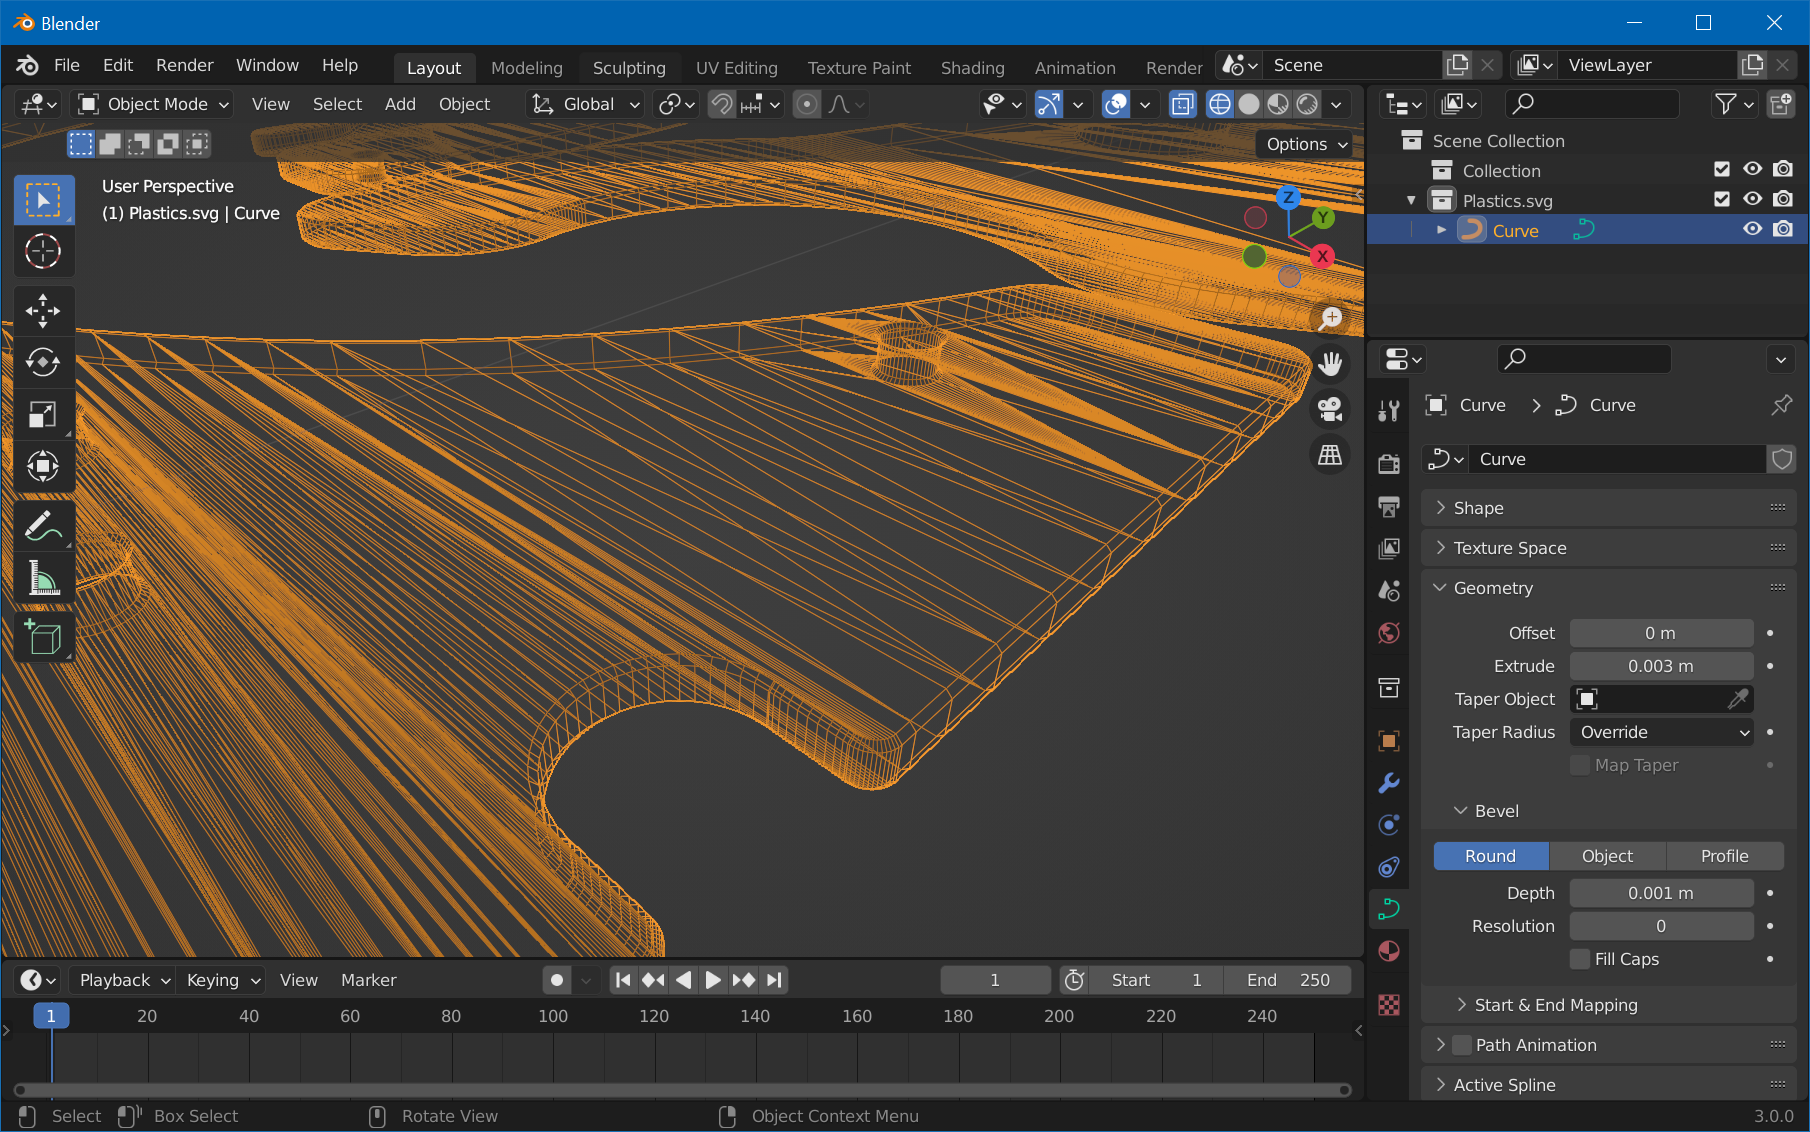
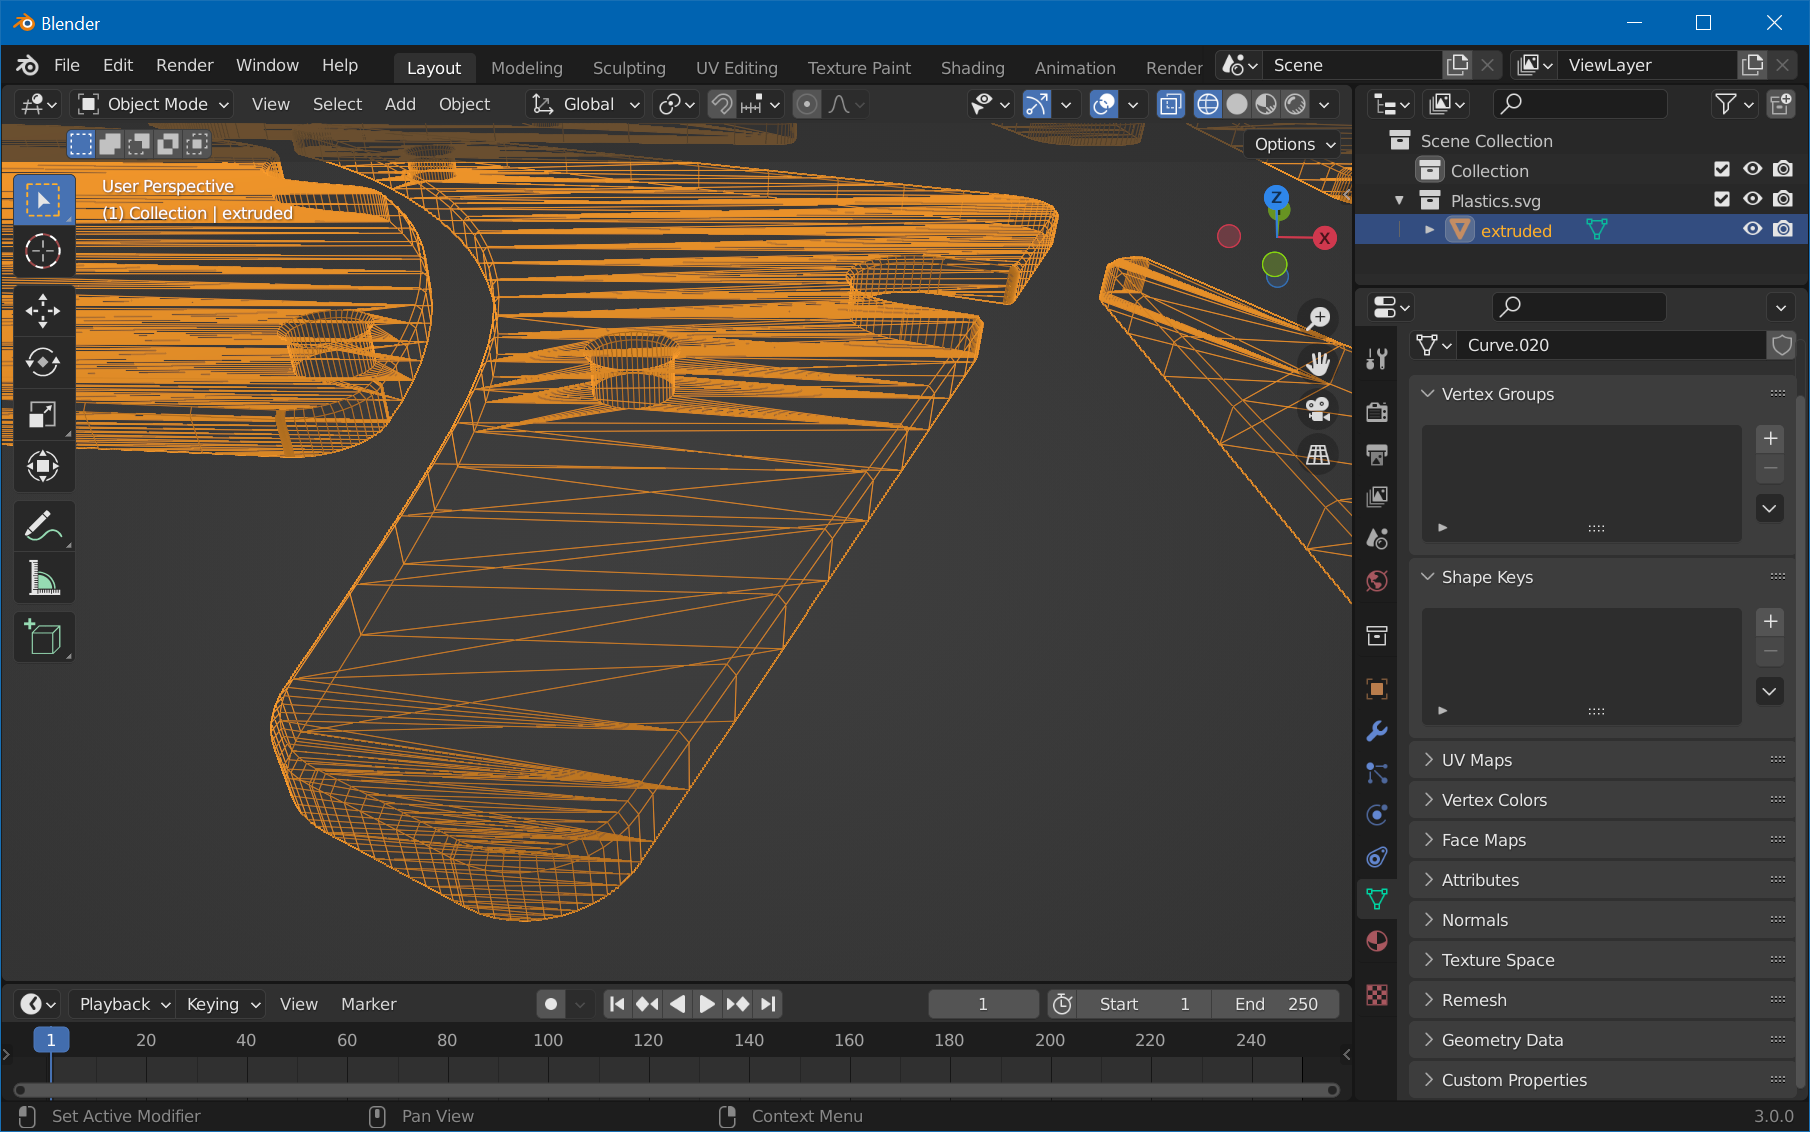
doc: Blender part for plastics is roughly okay now.

diff --git a/VisualPinball.Unity/Documentation~/creators-guide/tutorials/plastics-with-blender/2-create-mesh.md b/VisualPinball.Unity/Documentation~/creators-guide/tutorials/plastics-with-blender/2-create-mesh.md
@@ -21,42 +21,42 @@ Your viewport should look like this now:
 
 ![2D Outlines](blender-shapes.png)
 
-## Step 2: Extrude
+## Step 2: Setup
 
-Before we start extruding, let's make it one single object so we can easily apply everyting we do in one step. Hit `A` for select all, then `Ctrl`+`J` for joining all curves.
+The way we're going for this is to extrude and bevel our SVG on one side only. This however results in the bottom faces missing. To fix that, we'll duplicate our SVG and use one for extrusion and the other for the bottom mesh.
 
-Then, select the curve and click on the *Object Properties* tab in the *Properties* view on the right side. Under *Geometry*, there is an *Extrude* field, and a bit below a *Bevel* section.
+Before we start, let's make it one single object so we can easily apply everyting we do in one step. Select one element, hit `A` for select all, then `Ctrl`+`J` for joining all curves.
 
-Now, the *Extrude* value is difficult to judge. If you have access to the physical plastics, you can calculate the scale between the real world and the object in Blender by physically measuring the size of a plastic and dividing it by the measured value in Blender. Then, also measure the thickness of the real-world plastic and multiply it by that factor. Personally, I just eyeballed it and ended up with 0.004m for the *Extrude* value.
+Hit `Shift`+`D`, `Esc` to duplicate at the same position. In the *Outliner*, let's name our objects "bottom" and "extruded":
 
-However, this when beveling, Blender actually adds the bevel depth to the object, so the size will grow. We recommend beveling about a fourth of the thickness, so if you measured the actual thickness, set the *Bevel Depth* under *Bevel* to about a fourth and multiply the *Extrude* value by 0.8.
+![Duplicated Surface](blender-duplicated-surface.png)
 
-Also be sure to set the *Resolution* of the bevel to 0. In wireframe mode, your mesh should now look like this:
+## Step 3: Extrude
+
+Select "extruded" in the outliner and click on the *Object Properties* tab in the *Properties* view on the right side. Under *Geometry*, there is an *Extrude* field, and a bit below a *Bevel* section.
+
+Now, the *Extrude* value is difficult to judge. If you have access to the physical plastics, you can calculate the scale between the real world and the object in Blender by physically measuring the size of a plastic and dividing it by the measured value in Blender. Then, also measure the thickness of the real-world plastic and multiply it by that factor. Personally, I just eyeballed it and ended up with 0.003m for the *Extrude* value and 0.001m for the *Bevel Depth*.
+
+Then there are three more options to check:
+
+- We only want to extrude the front, so set *Fill Mode* to *Front*.
+- We don't want to make the object larger by bevelling, so enter the negative value of the bevel depth under *Offset*.
+- Finally, a *Resolution* of `0` will do.
+
+Here are all the non-default options in red:
+
+![Extrude Parameters](blender-extrude.png)
+
+## Step 4: Convert, Join and Clean
+
+As seen in the previous screenshot, our bottom object now sits in the middle of the extruded mesh. Let's fix that by typing `G` (move), `Z` (on z-axis only), and the extrude value of the previous step, in our case `0.003`, followed by `Enter`.
+
+Then type `A` to select all objects, choose *Object -> Convert -> Mesh*, and hit `Ctrl`+`J` to join them all. Finally, clean up the duplicated vertices from the extrusion by hitting `Tab` for edit mode, `A` to select all vertices, and choose `Mesh -> Clean Up -> Merge by Distance`.
+
+
+Exit edit mode and this is how it should look:
+
 
 ![Extruded Shapes](blender-extruded.png)
-
-## Step 3: Remove Lower Bevel
-
-Next step is to convert the extruded curve to a mesh. Select the mesh, then *Object -> Convert -> Mesh*. 
-
-We'll now remove the lower bevel by subtracting a cube from our mesh. Click on *Add -> Mesh -> Cube*. Resize the cube so it covers all plastics and move so it just covers the lower edges:
-
-![Cube to remove lower bevel](blender-removing-cube.png)
-
-Select the plastics object, go to the *Modifiers* tab, *Add Modifier -> Boolean*. Make sure *Difference* is selected, then either pick or select the cube under *Object*. Then hit `Ctrl`+`A` to apply it. Select the cube and hit `X`, `Enter` to delete it.
-
-The geometry of your meshes should now look like that:
-
-![No more lower bevel](blender-no-lower-bevel.png)
-
-## Step 4: Clean Up
-
-Now, when extruding, Blender duplicated some of the geometry. In order to fix that,select the plastics, press `Tab` for edit mode, `A` to select all, and choose *Mesh -> Clean Up -> Merge by Distance*. Be sure to put a low enough value so you don't lose any geometry.
-
-Secondly, you notice that the bottom planes have no geometry anymore. To fix that, enter object mode with *Tab*, select the *Modifier* tab in the properties window, press *Add Modifier* and choose *Triangulate*. Then press `Ctrl`+`A` to apply.
-
-Your geometry should now look like that:
-
-![Cleaned up and triangulated](blender-triangulated.png)
 
 If that's the case, congrats, you're done with the meshes! Maybe now it's a good moment to save your Blender file. `Ctrl`+`S` and enter `Plastics.blend`. Now, let's [UV-Map them](xref:plastics_with_blender_3)!

diff --git a/VisualPinball.Unity/Documentation~/creators-guide/tutorials/plastics-with-blender/3-uv-map-mesh.md b/VisualPinball.Unity/Documentation~/creators-guide/tutorials/plastics-with-blender/3-uv-map-mesh.md
@@ -13,18 +13,19 @@ description: How to UV-map the texture onto your mesh in Blender
 
 <img src="blender-material-slots.png" width="235" class="img-responsive pull-right" style="margin-left: 15px">
 
-In object mode, open *Materials* properties and remove the current material slot (hit `-`). Add three new slots, name them "top", "bottom" and "edge". For each slot, create a new material by hitting the *New* button when the slot is selected, and set their base color to red, green and blue respectively. Your slots should now look like in the screenshot.
+In object mode, open *Materials* properties and remove the current material slot (hit `-`). Add three new slots (press `+`), and for each slot, create a new material by hitting the *New* button when the slot is selected. Name them "top", "bottom" and "edge" and set their base color to red, green and blue respectively. Your slots should now look like in the screenshot.
 
-Set the 3D viewport to *Material Preview*. Select your mesh, press `Tab` to switch to edit mode. Press `A` to select all vertices, select the "edge" material slot, and hit *Assign*.
+Set the 3D viewport to *Material Preview*. Select your mesh, press `Tab` to switch to edit mode. Press `A` to select all vertices, select the "edge" material slot, and hit *Assign*. Your plastics should turn blue. Press `A` twice to deselect everything.
 
 Then, press `7` on the numpad to switch to top view, zoom in a bit so you can clearly see the triangles, switch to *Face Select* and click on one face of the top surface:
 
-![Triangle selected](blender-triangle-selected.png)
+![Triangle selected](blender-triangle-selected-2.png)
 
-Click on *Select -> Select Similar -> Coplanar*, which should result in all top faces of all plastics being selected. Then, select the "top" material slot and hit *Assign*.
+<img src="blender-select-coplanar.png" width="280" class="img-responsive pull-right" style="margin-left: 15px">
 
-For the bottom faces, hit `7`, `9` on the numpad to switch to bottom view, and select again one face. Like before, select all coplanar triangles, then the "bottom" material slot, and *Assign*. You should see the bottom faces turn green.
+Click on *Select -> Select Similar -> Coplanar*, which should result in all top faces of all plastics being selected. However, that's probably not the case, since there's a threshold that might be too large. So expand the parameters and set it to a small enough value. Then, select the "top" material slot and hit *Assign*. The surfaces should turn red.
 
+For the bottom faces, hit `7`, `9` on the numpad to switch to bottom view, and select again one face. Like before, select all faces with the same normal, click the "bottom" material slot, and *Assign*. You should see the bottom faces turn green.
 
 Now, the "edges" material slot should only contain the edges. Check by unselecting all (`A` `A`), then selecting the "edge" material slot and hitting *Select*. This should only select the edges, like here:
 
@@ -34,21 +35,18 @@ In *Material Preview* mode, your meshes should now be colored like this (from to
 
 ![Selecting edges](blender-material-geometry.png)
 
+## Step 2: UV-Map
 
-## Step 2: Flip Normals
+Switch to the *UV Editing* workspace. In the left *UV Editor*, choose *Image -> Open*, and select the exported `Plastic-01.png` you've created in part one. On the right, enter edit mode, click on the "top" material slot in the *Materials* property tab, and hit *Assign*. Select "bottom" and click on *Assign* again.
 
-Since the texture of the bottom points upwards into the mesh, we need to flip normals of the bottom triangles. In edit mode, unselect all, click on the "bottom" material slot and hit *Select*. Then, click on *Mesh -> Normals -> Flip*. When enabling normals visualization in the 3D viewport, it should now look like this:
+We're now going to UV-map both the top and bottom surface at once. Move your cursor to the left side, hit `A` and use the `G` and `S` keys to align the **outer** contour on top of your texture, like so:
 
-![Normals](blender-normals.png)
+![UV mapped correctly](blender-uv-mapped.png)
 
-The thing to note is that no normals should be pointing down.
+## Step 3: Export
 
+We still have a single object, so before exporting, let's split it. Still in edit mode in the 3D viewport, hit `A` to select all and choose *Mesh -> Separate -> By Loose Parts*.
 
-## Step 4: UV-Map
+Hit `Tab` to exit edit mode. Select *File -> Export -> FBX*. Name it `Plastics.fbx` and hit *Export FBX*.
 
-First, we need to assign the texture. Switch to the *Shading* workspace and select the "bottom" material. In the shader editor, click on *Add -> Texture -> Image Texture*. Select the exported `Plastic-01.png` you've created in part one. Link it up to the *Base Color* of the BSDF node:
-
-![Bottom Material](blender-bottom-material.png)
-
-Now we can UV-map the texture. Switch to the *UV Editing* workspace. 
-
+Now let's import this into Unity!
